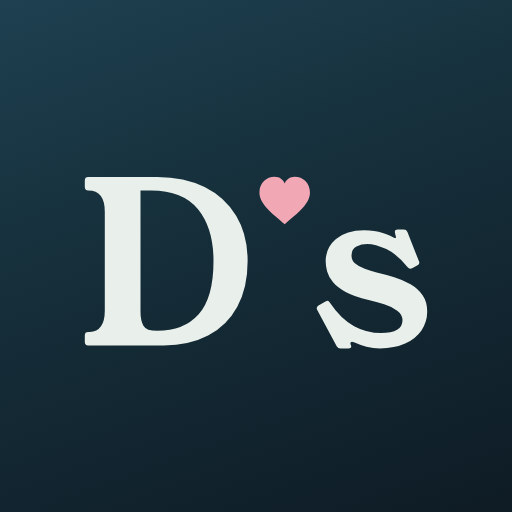
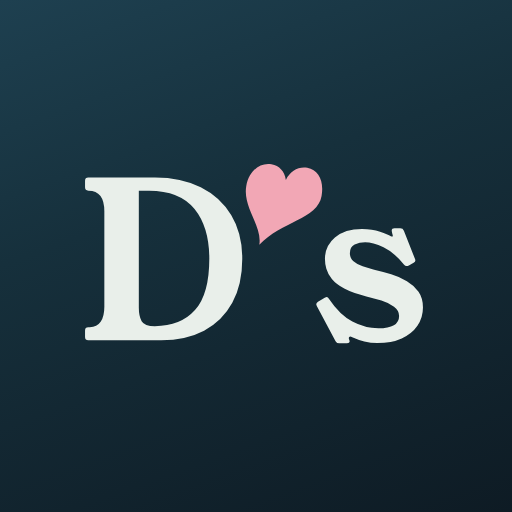
Wordmark: a hand-drawn heart for the apostrophe, tighter fit, one size on every screen; Chat becomes a round button
The heart now leans and ends in a small tail, so it reads as the apostrophe of D's.
Chat in the header is a round icon button beside Settings; the Nishiii section gains
a worded Chat with Nishiii button that opens the same chat. Icons redrawn from the new mark.

Claude-Session: https://claude.ai/code/session_01J6d47uFTbFd43mzx5kxFVD

diff --git a/web/index.html b/web/index.html
@@ -17,13 +17,13 @@
 </head>
 <body>
 <!-- The wordmark, drawn once as outlines so it is sharp at every size and needs no font to load. -->
-<svg class="sprite" width="0" height="0" aria-hidden="true" focusable="false"><symbol id="wm" viewBox="0.7 9.37 205.56 31.53"><path fill="currentColor" d="M14.12 10Q18.92 10 22.54 11.8Q26.16 13.6 28.18 16.96Q30.2 20.32 30.2 24.96Q30.2 29.72 28.36 33.1Q26.52 36.48 23.16 38.24Q19.8 40 15.24 40H1.8Q1.2 40 1.2 39.4V38.2Q1.2 37.6 1.8 37.6H2.08Q3.4 37.6 4.08 36.6Q4.76 35.6 4.76 33.8V16.2Q4.76 12.4 1.84 12.4H1.8Q1.2 12.4 1.2 11.8V10.6Q1.2 10 1.8 10ZM11.12 34Q11.12 35.56 11.64 36.48Q12.16 37.4 14.08 37.4Q18.84 37.4 21.48 34.44Q24.12 31.48 24.12 24.96Q24.12 19.16 21.4 15.78Q18.68 12.4 13 12.4H11.12Z M59.58 26.2Q59.34 26.32 59.18 26.32Q58.9 26.32 58.66 26.04Q56.86 23.76 54.9 22.84Q52.94 21.92 51.5 21.92Q50.46 21.92 49.58 22.36Q48.7 22.8 48.7 23.96Q48.7 24.84 49.36 25.42Q50.02 26 51.06 26.36Q52.1 26.72 53.18 27Q54.74 27.36 56.32 27.84Q57.9 28.32 59.22 29.1Q60.54 29.88 61.36 31.04Q62.18 32.2 62.18 33.96Q62.18 35.84 61.16 37.32Q60.14 38.8 58.26 39.66Q56.38 40.52 53.78 40.52Q52.54 40.52 51.36 40.22Q50.18 39.92 49.14 39.44Q48.9 39.32 48.78 39.32Q48.5 39.32 48.5 39.6Q48.5 39.68 48.58 39.92Q48.66 40.16 48.66 40.24Q48.66 40.56 48.18 40.56H46.74Q46.3 40.56 46.06 40.16L42.62 33.72Q42.5 33.48 42.5 33.36Q42.5 33.08 42.82 32.88L44.06 32.16Q44.3 32.04 44.42 32.04Q44.66 32.04 44.86 32.4Q46.82 35.32 49.16 36.56Q51.5 37.8 53.94 37.8Q57.78 37.8 57.78 35.52Q57.78 34.48 56.84 33.8Q55.9 33.12 54.52 32.68Q53.14 32.24 51.74 31.92Q49.18 31.28 47.66 30.46Q46.14 29.64 45.38 28.7Q44.62 27.76 44.36 26.82Q44.1 25.88 44.1 25Q44.1 22.6 45.94 21.04Q47.78 19.48 50.94 19.48Q52.82 19.48 54.26 19.98Q55.7 20.48 56.26 20.8Q56.42 20.88 56.5 20.88Q56.62 20.88 56.62 20.72Q56.62 20.6 56.5 20.24Q56.46 20.04 56.44 19.94Q56.42 19.84 56.42 19.76Q56.42 19.36 56.94 19.36H57.98Q58.5 19.36 58.66 19.8L60.66 24.88Q60.78 25.12 60.78 25.28Q60.78 25.56 60.46 25.72Z M98.44 19.08Q98.32 19.12 98.2 19.18Q98.08 19.24 97.96 19.24Q97.64 19.24 97.28 18.76Q94.72 15.56 92.24 14.16Q89.76 12.76 87.12 12.76Q85.52 12.76 84.38 13.6Q83.24 14.44 83.24 16.24Q83.24 17.72 84.16 18.68Q85.08 19.64 86.54 20.26Q88 20.88 89.52 21.32Q91.8 21.96 94.02 22.76Q96.24 23.56 98.04 24.66Q99.84 25.76 100.92 27.34Q102 28.92 102 31.16Q102 33.88 100.62 36Q99.24 38.12 96.64 39.32Q94.04 40.52 90.36 40.52Q88.56 40.52 86.98 40.06Q85.4 39.6 83.92 38.88Q83.6 38.72 83.32 38.72Q82.96 38.72 82.96 39.12Q82.96 39.24 83.04 39.56Q83.16 39.84 83.16 40.04Q83.16 40.48 82.48 40.48H80.48Q79.76 40.48 79.48 39.92L74.64 30.84Q74.48 30.52 74.48 30.36Q74.48 29.92 74.92 29.68L76.68 28.68Q76.8 28.6 76.92 28.56Q77.04 28.52 77.16 28.52Q77.56 28.52 77.84 29Q80.56 33.12 83.86 35.12Q87.16 37.12 90.6 37.12Q93.2 37.12 94.6 35.94Q96 34.76 96 32.96Q96 31.2 95.12 30.2Q94.24 29.2 92.4 28.52Q90.56 27.84 87.68 27Q85.72 26.44 83.8 25.64Q81.88 24.84 80.32 23.7Q78.76 22.56 77.82 20.98Q76.88 19.4 76.88 17.24Q76.88 14.6 78.22 12.88Q79.56 11.16 81.84 10.34Q84.12 9.52 87 9.52Q89.24 9.52 90.8 10.08Q92.36 10.64 93.2 11.12Q93.88 11.52 94.12 11.52Q94.32 11.52 94.32 11.28Q94.32 11.08 94.22 10.72Q94.12 10.36 94.12 9.96Q94.12 9.36 94.84 9.36H96.28Q97 9.36 97.28 10.04L100.08 17.2Q100.16 17.36 100.2 17.5Q100.24 17.64 100.24 17.76Q100.24 18.12 99.8 18.36ZM118.48 37.12Q118.6 37.28 118.6 37.48Q118.6 37.72 118.28 37.92L117.08 38.68Q116 39.36 114.48 39.94Q112.96 40.52 111.44 40.52Q110.24 40.52 109.18 39.96Q108.12 39.4 107.48 38.06Q106.84 36.72 106.84 34.36V26.96Q106.84 25.88 106.72 24.82Q106.6 23.76 105.98 23.08Q105.36 22.4 103.92 22.4Q103.32 22.4 103.32 21.8V20.6Q103.32 20 103.92 20H106.84V17.32Q106.84 16.8 107.2 16.6Q108.08 16.12 109.52 15.26Q110.96 14.4 112.08 13.28Q112.16 13.2 112.28 13.2H112.36Q112.44 13.2 112.44 13.32V20H117.8Q118.4 20 118.4 20.6V22.32Q118.4 22.92 117.8 22.92H112.44V34.36Q112.44 35.92 112.92 36.5Q113.4 37.08 114.12 37.08Q114.8 37.08 115.56 36.7Q116.32 36.32 116.96 35.92Q117.24 35.76 117.4 35.76Q117.64 35.76 117.84 36.08ZM142.12 31.92Q142.12 32.96 142.26 33.98Q142.4 35 142.9 35.7Q143.4 36.4 144.48 36.52Q144.8 36.56 144.86 36.7Q144.92 36.84 144.92 37.04V38.36Q144.92 38.92 144.36 38.92Q142.4 38.92 141.1 39.14Q139.8 39.36 138.86 39.7Q137.92 40.04 137 40.44Q136.84 40.52 136.68 40.52H136.6Q136.52 40.52 136.52 40.4Q136.52 40.28 136.66 39.18Q136.8 38.08 137.16 35.36Q136.6 36.48 135.6 37.68Q134.6 38.88 133.18 39.7Q131.76 40.52 129.92 40.52Q127.76 40.52 126.42 39.86Q125.08 39.2 124.36 38.1Q123.64 37 123.38 35.62Q123.12 34.24 123.12 32.8V26.2Q123.12 24.56 122.38 23.48Q121.64 22.4 120.16 22.4H120Q119.4 22.4 119.4 21.8V20.6Q119.4 20 120 20H128.12Q128.72 20 128.72 20.6V33.04Q128.72 34.12 128.92 35.02Q129.12 35.92 129.74 36.46Q130.36 37 131.6 37Q132.6 37 133.6 36.5Q134.6 36 135.38 35.22Q136.16 34.44 136.48 33.6V26.2Q136.48 24.56 135.74 23.48Q135 22.4 133.56 22.4H133.48Q132.88 22.4 132.88 21.8V20.6Q132.88 20 133.48 20H141.52Q142.12 20 142.12 20.6ZM166.68 32.6Q166.68 34.04 167.12 35.18Q167.56 36.32 169.04 36.52Q169.52 36.56 169.52 37.04V38.36Q169.52 38.92 168.92 38.92Q166.96 38.92 165.66 39.14Q164.36 39.36 163.42 39.7Q162.48 40.04 161.56 40.44Q161.4 40.52 161.28 40.52H161.2Q161.08 40.52 161.08 40.4Q161.16 39.48 161.26 38.6Q161.36 37.72 161.52 36.84Q161.32 37.36 160.66 38.24Q160 39.12 158.74 39.82Q157.48 40.52 155.44 40.52Q154.08 40.52 152.54 39.96Q151 39.4 149.64 38.16Q148.28 36.92 147.42 34.9Q146.56 32.88 146.56 29.96Q146.56 26.24 147.9 23.94Q149.24 21.64 151.38 20.56Q153.52 19.48 155.92 19.48Q158.96 19.48 161.08 21.36V18.8Q161.08 17.72 160.94 16.72Q160.8 15.72 160.32 15.02Q159.84 14.32 158.72 14.2Q158.24 14.16 158.24 13.68V12.32Q158.24 12.08 158.4 11.98Q158.56 11.88 158.84 11.8Q162 10.76 163.78 9.72Q165.56 8.68 166.36 8.08Q166.48 8 166.56 8H166.6Q166.68 8 166.68 8.08ZM161.08 27.04Q161.08 25.16 159.86 23.84Q158.64 22.52 156.64 22.52Q154.72 22.52 153.64 23.36Q152.56 24.2 152.14 25.6Q151.72 27 151.72 28.68Q151.72 32.52 153.26 34.76Q154.8 37 157.24 37Q158.32 37 159.12 36.46Q159.92 35.92 160.42 35.12Q160.92 34.32 161.08 33.6ZM182.8 37.6Q183.4 37.6 183.4 38.2V39.4Q183.4 40 182.72 40H171.4Q170.72 40 170.72 39.4V38.2Q170.72 37.6 171.32 37.6H171.4Q172.88 37.6 173.58 36.5Q174.28 35.4 174.28 33.8V29.56Q174.28 28.64 174.14 27.72Q174 26.8 173.52 26.12Q173.04 25.44 171.92 25.32Q171.44 25.28 171.44 24.8V23.44Q171.44 23.2 171.6 23.1Q171.76 23 172.04 22.92Q175.2 21.88 176.9 20.78Q178.6 19.68 179.4 18.84Q179.48 18.76 179.56 18.76H179.68Q179.76 18.76 179.76 18.84V33.76Q179.76 35.36 180.48 36.48Q181.2 37.6 182.68 37.6ZM177.08 10.4Q178.12 10.4 179.12 11.4Q180.12 12.4 180.12 13.4Q180.12 14.4 179.12 15.4Q178.12 16.4 177.08 16.4Q176.12 16.4 175.08 15.4Q174.08 14.44 174.08 13.4Q174.08 12.4 175.08 11.4Q176.08 10.4 177.08 10.4ZM195.24 19.48Q197.52 19.48 199.46 20.38Q201.4 21.28 202.8 22.82Q204.2 24.36 204.98 26.26Q205.76 28.16 205.76 30.2Q205.76 33.16 204.36 35.5Q202.96 37.84 200.68 39.18Q198.4 40.52 195.72 40.52Q193.44 40.52 191.52 39.64Q189.6 38.76 188.18 37.26Q186.76 35.76 185.98 33.82Q185.2 31.88 185.2 29.76Q185.2 26.84 186.56 24.52Q187.92 22.2 190.2 20.84Q192.48 19.48 195.24 19.48ZM196.96 37.28Q197.72 37.28 198.64 36.88Q199.56 36.48 200.26 35.48Q200.96 34.48 200.96 32.72Q200.96 31.32 200.42 29.62Q199.88 27.92 198.94 26.34Q198 24.76 196.74 23.74Q195.48 22.72 194 22.72Q192.36 22.72 191.16 23.94Q189.96 25.16 189.96 27.28Q189.96 28.64 190.5 30.36Q191.04 32.08 191.98 33.66Q192.92 35.24 194.2 36.26Q195.48 37.28 196.96 37.28Z"/></symbol></svg>
+<svg class="sprite" width="0" height="0" aria-hidden="true" focusable="false"><symbol id="wm" viewBox="0 0 206.21 34.48"><path fill="currentColor" d="M13.32 3.52Q18.12 3.52 21.74 5.32Q25.36 7.12 27.38 10.48Q29.4 13.84 29.4 18.48Q29.4 23.24 27.56 26.62Q25.72 30 22.36 31.76Q19 33.52 14.44 33.52H1Q0.4 33.52 0.4 32.92V31.72Q0.4 31.12 1 31.12H1.28Q2.6 31.12 3.28 30.12Q3.96 29.12 3.96 27.32V9.72Q3.96 5.92 1.04 5.92H1Q0.4 5.92 0.4 5.32V4.12Q0.4 3.52 1 3.52ZM10.32 27.52Q10.32 29.08 10.84 30Q11.36 30.92 13.28 30.92Q18.04 30.92 20.68 27.96Q23.32 25 23.32 18.48Q23.32 12.68 20.6 9.3Q17.88 5.92 12.2 5.92H10.32Z M60.13 19.72Q59.89 19.84 59.73 19.84Q59.45 19.84 59.21 19.56Q57.41 17.28 55.45 16.36Q53.49 15.44 52.05 15.44Q51.01 15.44 50.13 15.88Q49.25 16.32 49.25 17.48Q49.25 18.36 49.91 18.94Q50.57 19.52 51.61 19.88Q52.65 20.24 53.73 20.52Q55.29 20.88 56.87 21.36Q58.45 21.84 59.77 22.62Q61.09 23.4 61.91 24.56Q62.73 25.72 62.73 27.48Q62.73 29.36 61.71 30.84Q60.69 32.32 58.81 33.18Q56.93 34.04 54.33 34.04Q53.09 34.04 51.91 33.74Q50.73 33.44 49.69 32.96Q49.45 32.84 49.33 32.84Q49.05 32.84 49.05 33.12Q49.05 33.2 49.13 33.44Q49.21 33.68 49.21 33.76Q49.21 34.08 48.73 34.08H47.29Q46.85 34.08 46.61 33.68L43.17 27.24Q43.05 27 43.05 26.88Q43.05 26.6 43.37 26.4L44.61 25.68Q44.85 25.56 44.97 25.56Q45.21 25.56 45.41 25.92Q47.37 28.84 49.71 30.08Q52.05 31.32 54.49 31.32Q58.33 31.32 58.33 29.04Q58.33 28 57.39 27.32Q56.45 26.64 55.07 26.2Q53.69 25.76 52.29 25.44Q49.73 24.8 48.21 23.98Q46.69 23.16 45.93 22.22Q45.17 21.28 44.91 20.34Q44.65 19.4 44.65 18.52Q44.65 16.12 46.49 14.56Q48.33 13 51.49 13Q53.37 13 54.81 13.5Q56.25 14 56.81 14.32Q56.97 14.4 57.05 14.4Q57.17 14.4 57.17 14.24Q57.17 14.12 57.05 13.76Q57.01 13.56 56.99 13.46Q56.97 13.36 56.97 13.28Q56.97 12.88 57.49 12.88H58.53Q59.05 12.88 59.21 13.32L61.21 18.4Q61.33 18.64 61.33 18.8Q61.33 19.08 61.01 19.24Z M98.49 12.6Q98.37 12.64 98.25 12.7Q98.13 12.76 98.01 12.76Q97.69 12.76 97.33 12.28Q94.77 9.08 92.29 7.68Q89.81 6.28 87.17 6.28Q85.57 6.28 84.43 7.12Q83.29 7.96 83.29 9.76Q83.29 11.24 84.21 12.2Q85.13 13.16 86.59 13.78Q88.05 14.4 89.57 14.84Q91.85 15.48 94.07 16.28Q96.29 17.08 98.09 18.18Q99.89 19.28 100.97 20.86Q102.05 22.44 102.05 24.68Q102.05 27.4 100.67 29.52Q99.29 31.64 96.69 32.84Q94.09 34.04 90.41 34.04Q88.61 34.04 87.03 33.58Q85.45 33.12 83.97 32.4Q83.65 32.24 83.37 32.24Q83.01 32.24 83.01 32.64Q83.01 32.76 83.09 33.08Q83.21 33.36 83.21 33.56Q83.21 34 82.53 34H80.53Q79.81 34 79.53 33.44L74.69 24.36Q74.53 24.04 74.53 23.88Q74.53 23.44 74.97 23.2L76.73 22.2Q76.85 22.12 76.97 22.08Q77.09 22.04 77.21 22.04Q77.61 22.04 77.89 22.52Q80.61 26.64 83.91 28.64Q87.21 30.64 90.65 30.64Q93.25 30.64 94.65 29.46Q96.05 28.28 96.05 26.48Q96.05 24.72 95.17 23.72Q94.29 22.72 92.45 22.04Q90.61 21.36 87.73 20.52Q85.77 19.96 83.85 19.16Q81.93 18.36 80.37 17.22Q78.81 16.08 77.87 14.5Q76.93 12.92 76.93 10.76Q76.93 8.12 78.27 6.4Q79.61 4.68 81.89 3.86Q84.17 3.04 87.05 3.04Q89.29 3.04 90.85 3.6Q92.41 4.16 93.25 4.64Q93.93 5.04 94.17 5.04Q94.37 5.04 94.37 4.8Q94.37 4.6 94.27 4.24Q94.17 3.88 94.17 3.48Q94.17 2.88 94.89 2.88H96.33Q97.05 2.88 97.33 3.56L100.13 10.72Q100.21 10.88 100.25 11.02Q100.29 11.16 100.29 11.28Q100.29 11.64 99.85 11.88ZM118.53 30.64Q118.65 30.8 118.65 31Q118.65 31.24 118.33 31.44L117.13 32.2Q116.05 32.88 114.53 33.46Q113.01 34.04 111.49 34.04Q110.29 34.04 109.23 33.48Q108.17 32.92 107.53 31.58Q106.89 30.24 106.89 27.88V20.48Q106.89 19.4 106.77 18.34Q106.65 17.28 106.03 16.6Q105.41 15.92 103.97 15.92Q103.37 15.92 103.37 15.32V14.12Q103.37 13.52 103.97 13.52H106.89V10.84Q106.89 10.32 107.25 10.12Q108.13 9.64 109.57 8.78Q111.01 7.92 112.13 6.8Q112.21 6.72 112.33 6.72H112.41Q112.49 6.72 112.49 6.84V13.52H117.85Q118.45 13.52 118.45 14.12V15.84Q118.45 16.44 117.85 16.44H112.49V27.88Q112.49 29.44 112.97 30.02Q113.45 30.6 114.17 30.6Q114.85 30.6 115.61 30.22Q116.37 29.84 117.01 29.44Q117.29 29.28 117.45 29.28Q117.69 29.28 117.89 29.6ZM142.17 25.44Q142.17 26.48 142.31 27.5Q142.45 28.52 142.95 29.22Q143.45 29.92 144.53 30.04Q144.85 30.08 144.91 30.22Q144.97 30.36 144.97 30.56V31.88Q144.97 32.44 144.41 32.44Q142.45 32.44 141.15 32.66Q139.85 32.88 138.91 33.22Q137.97 33.56 137.05 33.96Q136.89 34.04 136.73 34.04H136.65Q136.57 34.04 136.57 33.92Q136.57 33.8 136.71 32.7Q136.85 31.6 137.21 28.88Q136.65 30 135.65 31.2Q134.65 32.4 133.23 33.22Q131.81 34.04 129.97 34.04Q127.81 34.04 126.47 33.38Q125.13 32.72 124.41 31.62Q123.69 30.52 123.43 29.14Q123.17 27.76 123.17 26.32V19.72Q123.17 18.08 122.43 17Q121.69 15.92 120.21 15.92H120.05Q119.45 15.92 119.45 15.32V14.12Q119.45 13.52 120.05 13.52H128.17Q128.77 13.52 128.77 14.12V26.56Q128.77 27.64 128.97 28.54Q129.17 29.44 129.79 29.98Q130.41 30.52 131.65 30.52Q132.65 30.52 133.65 30.02Q134.65 29.52 135.43 28.74Q136.21 27.96 136.53 27.12V19.72Q136.53 18.08 135.79 17Q135.05 15.92 133.61 15.92H133.53Q132.93 15.92 132.93 15.32V14.12Q132.93 13.52 133.53 13.52H141.57Q142.17 13.52 142.17 14.12ZM166.73 26.12Q166.73 27.56 167.17 28.7Q167.61 29.84 169.09 30.04Q169.57 30.08 169.57 30.56V31.88Q169.57 32.44 168.97 32.44Q167.01 32.44 165.71 32.66Q164.41 32.88 163.47 33.22Q162.53 33.56 161.61 33.96Q161.45 34.04 161.33 34.04H161.25Q161.13 34.04 161.13 33.92Q161.21 33 161.31 32.12Q161.41 31.24 161.57 30.36Q161.37 30.88 160.71 31.76Q160.05 32.64 158.79 33.34Q157.53 34.04 155.49 34.04Q154.13 34.04 152.59 33.48Q151.05 32.92 149.69 31.68Q148.33 30.44 147.47 28.42Q146.61 26.4 146.61 23.48Q146.61 19.76 147.95 17.46Q149.29 15.16 151.43 14.08Q153.57 13 155.97 13Q159.01 13 161.13 14.88V12.32Q161.13 11.24 160.99 10.24Q160.85 9.24 160.37 8.54Q159.89 7.84 158.77 7.72Q158.29 7.68 158.29 7.2V5.84Q158.29 5.6 158.45 5.5Q158.61 5.4 158.89 5.32Q162.05 4.28 163.83 3.24Q165.61 2.2 166.41 1.6Q166.53 1.52 166.61 1.52H166.65Q166.73 1.52 166.73 1.6ZM161.13 20.56Q161.13 18.68 159.91 17.36Q158.69 16.04 156.69 16.04Q154.77 16.04 153.69 16.88Q152.61 17.72 152.19 19.12Q151.77 20.52 151.77 22.2Q151.77 26.04 153.31 28.28Q154.85 30.52 157.29 30.52Q158.37 30.52 159.17 29.98Q159.97 29.44 160.47 28.64Q160.97 27.84 161.13 27.12ZM182.85 31.12Q183.45 31.12 183.45 31.72V32.92Q183.45 33.52 182.77 33.52H171.45Q170.77 33.52 170.77 32.92V31.72Q170.77 31.12 171.37 31.12H171.45Q172.93 31.12 173.63 30.02Q174.33 28.92 174.33 27.32V23.08Q174.33 22.16 174.19 21.24Q174.05 20.32 173.57 19.64Q173.09 18.96 171.97 18.84Q171.49 18.8 171.49 18.32V16.96Q171.49 16.72 171.65 16.62Q171.81 16.52 172.09 16.44Q175.25 15.4 176.95 14.3Q178.65 13.2 179.45 12.36Q179.53 12.28 179.61 12.28H179.73Q179.81 12.28 179.81 12.36V27.28Q179.81 28.88 180.53 30Q181.25 31.12 182.73 31.12ZM177.13 3.92Q178.17 3.92 179.17 4.92Q180.17 5.92 180.17 6.92Q180.17 7.92 179.17 8.92Q178.17 9.92 177.13 9.92Q176.17 9.92 175.13 8.92Q174.13 7.96 174.13 6.92Q174.13 5.92 175.13 4.92Q176.13 3.92 177.13 3.92ZM195.29 13Q197.57 13 199.51 13.9Q201.45 14.8 202.85 16.34Q204.25 17.88 205.03 19.78Q205.81 21.68 205.81 23.72Q205.81 26.68 204.41 29.02Q203.01 31.36 200.73 32.7Q198.45 34.04 195.77 34.04Q193.49 34.04 191.57 33.16Q189.65 32.28 188.23 30.78Q186.81 29.28 186.03 27.34Q185.25 25.4 185.25 23.28Q185.25 20.36 186.61 18.04Q187.97 15.72 190.25 14.36Q192.53 13 195.29 13ZM197.01 30.8Q197.77 30.8 198.69 30.4Q199.61 30 200.31 29Q201.01 28 201.01 26.24Q201.01 24.84 200.47 23.14Q199.93 21.44 198.99 19.86Q198.05 18.28 196.79 17.26Q195.53 16.24 194.05 16.24Q192.41 16.24 191.21 17.46Q190.01 18.68 190.01 20.8Q190.01 22.16 190.55 23.88Q191.09 25.6 192.03 27.18Q192.97 28.76 194.25 29.78Q195.53 30.8 197.01 30.8Z"/></symbol></svg>
 
 <header class="bar">
   <div class="top">
-    <h1 class="wordmark" id="wordmark"><svg viewBox="0.7 9.37 205.56 31.53" role="img" aria-label="D's Studio"><use href="#wm" x="0.7" y="9.37"/><path class="wm-heart" d="M36.8 18.43C35.18 16.91 32.3 15.05 32.3 12.76C32.3 11.07 33.56 9.97 35 9.97C35.9 9.97 36.53 10.48 36.8 11.15C37.07 10.48 37.7 9.97 38.6 9.97C40.04 9.97 41.3 11.07 41.3 12.76C41.3 15.05 38.42 16.91 36.8 18.43Z"/></svg></h1>
+    <h1 class="wordmark" id="wordmark"><svg viewBox="0 0 206.21 34.48" role="img" aria-label="D's Studio"><use href="#wm"/><path class="wm-heart" d="M32.54 15.90C33.15 12.46 29.44 9.01 30.14 5.07C30.64 2.24 32.69 0.70 34.78 1.07C36.26 1.33 37.21 2.38 37.44 3.95C38.24 2.31 39.79 1.44 41.39 1.72C43.48 2.09 44.51 4.18 44.03 6.89C43.27 11.19 36.61 11.54 32.54 15.90Z"/></svg></h1>
     <div class="top-actions">
-      <button class="chatbtn ic ic-chat" id="chat-open" hidden>Chat</button>
+      <button class="iconbtn ic ic-chat" id="chat-open" aria-label="Chat with Nishiii" hidden>Chat</button>
       <button class="iconbtn ic ic-settings" id="settings-open" aria-label="Settings">Settings</button>
     </div>
   </div>
@@ -187,6 +187,7 @@
   <h2>Ask Nishiii for quotes</h2>
   <p class="note">Five quotes right now, from any book, film, series or page you choose.</p>
   <button class="btn primary ic ic-sparkle" id="ask-open">Ask for quotes</button>
+  <button class="btn ic ic-chat" id="nishiii-chat" type="button" hidden>Chat with Nishiii</button>
   <p class="note" id="asked-note" role="status" hidden></p>
   <div class="cards" id="asked-list"></div>
 
@@ -368,7 +369,7 @@
 </main>
 
 <form class="lock" id="lock" hidden>
-  <h2 class="wordmark"><svg viewBox="0.7 9.37 205.56 31.53" role="img" aria-label="D's Studio"><use href="#wm" x="0.7" y="9.37"/><path class="wm-heart" d="M36.8 18.43C35.18 16.91 32.3 15.05 32.3 12.76C32.3 11.07 33.56 9.97 35 9.97C35.9 9.97 36.53 10.48 36.8 11.15C37.07 10.48 37.7 9.97 38.6 9.97C40.04 9.97 41.3 11.07 41.3 12.76C41.3 15.05 38.42 16.91 36.8 18.43Z"/></svg></h2>
+  <h2 class="wordmark"><svg viewBox="0 0 206.21 34.48" role="img" aria-label="D's Studio"><use href="#wm"/><path class="wm-heart" d="M32.54 15.90C33.15 12.46 29.44 9.01 30.14 5.07C30.64 2.24 32.69 0.70 34.78 1.07C36.26 1.33 37.21 2.38 37.44 3.95C38.24 2.31 39.79 1.44 41.39 1.72C43.48 2.09 44.51 4.18 44.03 6.89C43.27 11.19 36.61 11.54 32.54 15.90Z"/></svg></h2>
   <p class="tagline">Made for Dhruuu, by <span class="sig">Nishiii</span></p>
   <button class="btn primary ic ic-faceid" type="button" id="faceid-unlock" hidden>Unlock with Face ID</button>
   <p class="note" id="lock-or" hidden>Or use the passcode:</p>

diff --git a/web/app.css b/web/app.css
@@ -126,8 +126,7 @@ button, summary, .btn { -webkit-user-select: none; user-select: none; -webkit-to
 .bar { flex: none; padding: 0 var(--side) 8px; }
 .top { display: flex; align-items: center; justify-content: space-between; gap: 12px; min-height: 48px; }
 .wordmark { margin: 0; line-height: 0; color: var(--foam); flex: 1 1 auto; min-width: 0; }
-.wordmark svg { display: block; width: 100%; max-width: 176px; height: auto; overflow: visible; }
-.bar:has(.hello:not([hidden])) .wordmark svg { max-width: 232px; }        /* on Today the name stands taller */
+.wordmark svg { display: block; width: 100%; max-width: 216px; height: auto; overflow: visible; }
 /* The heart where the apostrophe goes. It beats twice when the app opens, then keeps still. */
 .wm-heart { fill: var(--rose); transform-box: fill-box; transform-origin: 50% 60%; animation: beat 0.95s 0.45s 1 both; }
 @keyframes beat {
@@ -141,11 +140,7 @@ button, summary, .btn { -webkit-user-select: none; user-select: none; -webkit-to
   display: inline-flex; align-items: center; justify-content: center; background: var(--ctl); color: var(--mist); font-size: 0; cursor: pointer;
 }
 .iconbtn::before { width: 22px; height: 22px; }
-.chatbtn {
-  display: inline-flex; align-items: center; gap: 8px; height: 44px; padding: 0 16px 0 12px; border: 0; border-radius: 999px;
-  background: var(--ctl); color: var(--foam); font: 500 13px var(--ui); cursor: pointer;
-}
-.iconbtn:active, .chatbtn:active { background: var(--swell); }
+.iconbtn:active { background: var(--swell); }
 
 /* Nishiii's note, in his hand: the line under the name on Today. Room for two lines is kept so little moves when
    the note arrives. The small line above it and his signature are rose, like the heart. */

diff --git a/web/studio.js b/web/studio.js
@@ -1329,6 +1329,7 @@
     } finally { chatBusy = false; $("chat-send").disabled = false; }
   }
   $("chat-open").addEventListener("click", () => { $("chat").hidden = false; $("chat-input").focus(); });
+  $("nishiii-chat").addEventListener("click", () => $("chat-open").click());   // the same chat, by name, in the Nishiii section
   $("chat-close").addEventListener("click", () => { $("chat").hidden = true; });
   $("chat").addEventListener("click", (e) => { if (e.target === $("chat")) $("chat").hidden = true; });
   $("chat-form").addEventListener("submit", (e) => { e.preventDefault(); sayToNishiii($("chat-input").value); });
@@ -1340,6 +1341,7 @@
     if (started) { if (current === "today") loadToday(true); return; }
     started = true;
     $("chat-open").hidden = !S.server.ai;
+    $("nishiii-chat").hidden = !S.server.ai;
     loadLooks();
     show(S.server.ai ? "today" : "create");
   });
